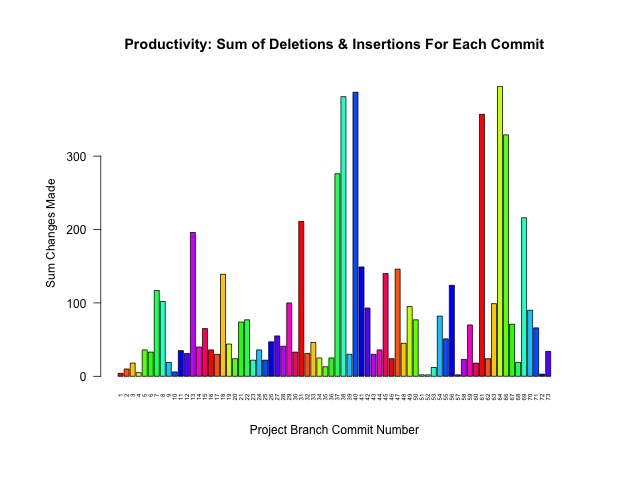
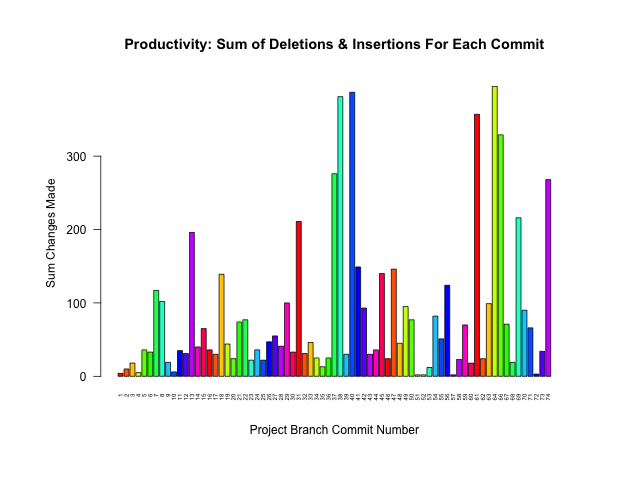
COMMIT #244

Changed region(s): [[0.1875, 0.1562, 0.875, 0.8438]]

diff --git a/README.md b/README.md
@@ -17,8 +17,8 @@ ProjectName::BranchName.data
 
 Project Name | Last Updated | # Commits | # Branches | Branches Merged
 :---|:---:|:---:|:---:|:---:
-[learn_some_C.Plus.Plus](https://github.com/pierremigeon/learn_some_C.Plus.Plus)                    |  2023-07-13  |  73   |  1  |  100%  (1/1)
-[commit_tracker](https://github.com/pierremigeon/commit_tracker)                                    |  2023-07-13  |  242  |  1  |  100%  (1/1)
+[learn_some_C.Plus.Plus](https://github.com/pierremigeon/learn_some_C.Plus.Plus)                    |  2023-07-14  |  74   |  1  |  100%  (1/1)
+[commit_tracker](https://github.com/pierremigeon/commit_tracker)                                    |  2023-07-13  |  243  |  1  |  100%  (1/1)
 [Algorithms_practice](https://github.com/pierremigeon/Algorithms_practice)                          |  2023-07-13  |  12   |  4  |  75%   (3/4)
 [libft](https://github.com/pierremigeon/libft)                                                      |  2023-06-05  |  30   |  2  |  50%   (1/2)
 [ft_printf](https://github.com/pierremigeon/ft_printf)                                              |  2023-06-01  |  37   |  2  |  100%  (2/2)
